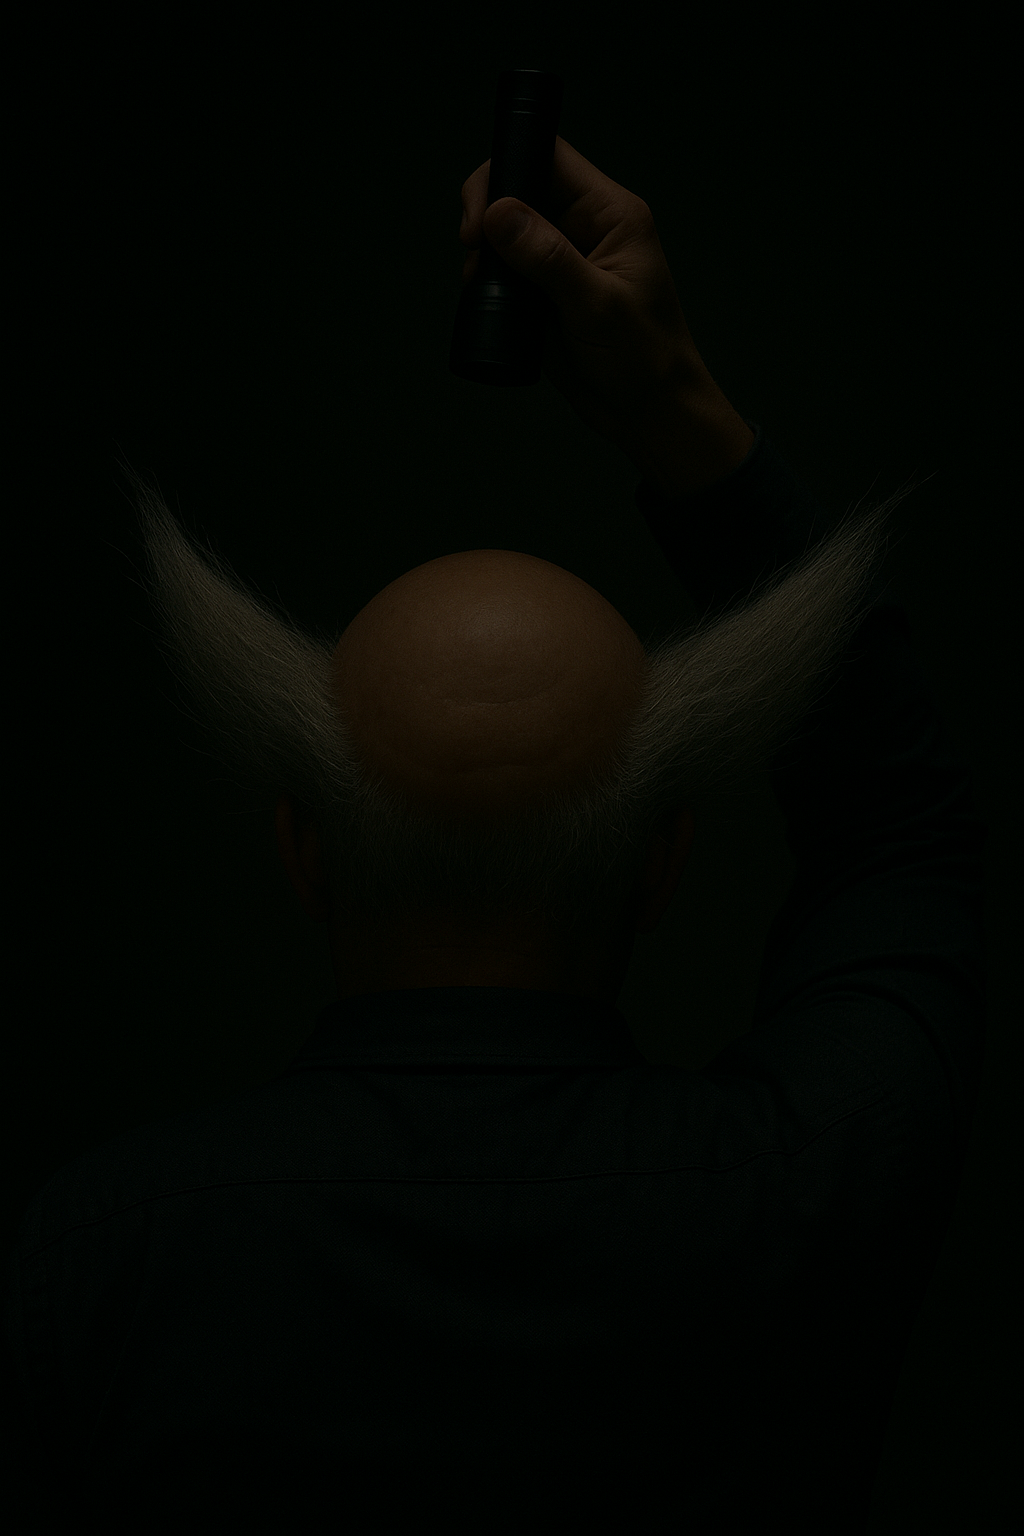
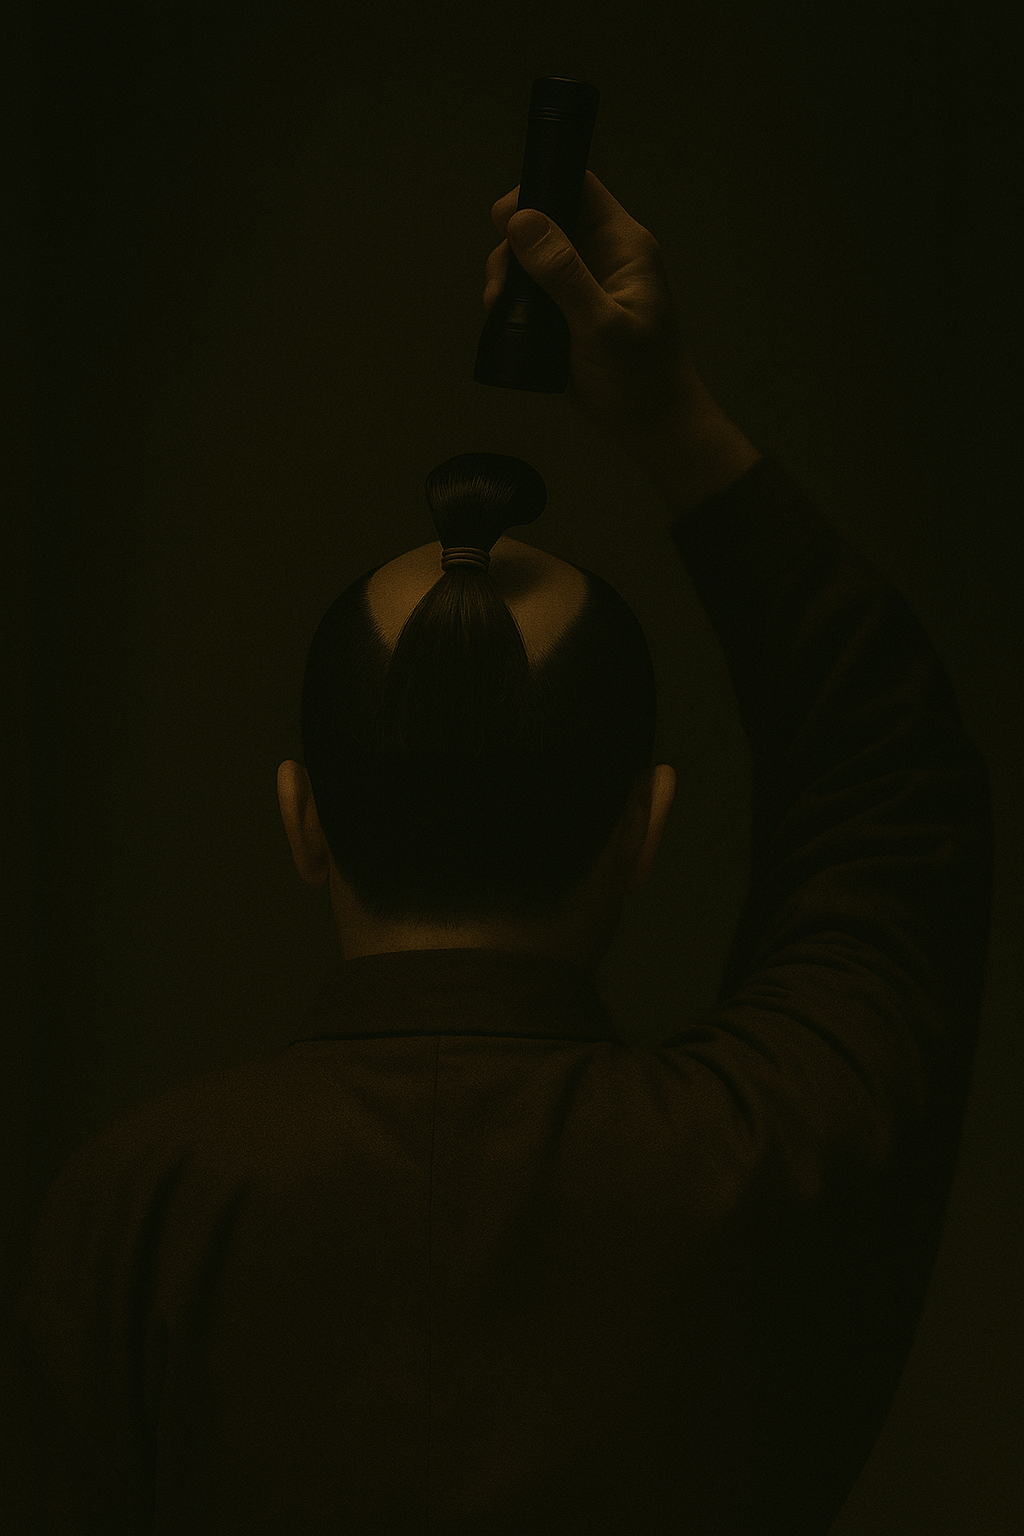
대머리 사진 변경

diff --git a/lib/main.dart b/lib/main.dart
@@ -506,10 +506,13 @@ class _FlashlightMainPageState extends State<FlashlightMainPage>
                         child: SizedBox(
                           height: 80,
                           child: ElevatedButton(
-                            onPressed:
-                                _isRewardedAdLoading ? null : _watchRewardedAd,
+                            onPressed: _isRewardedAdLoading || !_adMobService.isRewardedAdAvailable
+                                ? null 
+                                : _watchRewardedAd,
                             style: ElevatedButton.styleFrom(
-                              backgroundColor: Colors.green,
+                              backgroundColor: _adMobService.isRewardedAdAvailable 
+                                  ? Colors.green 
+                                  : Colors.green.withValues(alpha: 0.5),
                               foregroundColor: Colors.white,
                               shape: RoundedRectangleBorder(
                                 borderRadius: BorderRadius.circular(20),
@@ -526,22 +529,46 @@ class _FlashlightMainPageState extends State<FlashlightMainPage>
                                           Colors.white),
                                     ),
                                   )
-                                : const Column(
-                                    mainAxisAlignment: MainAxisAlignment.center,
-                                    children: [
-                                      Icon(Icons.video_library,
-                                          color: Colors.white, size: 24),
-                                      SizedBox(height: 4),
-                                      Text(
-                                        'Watch Ad\n+100',
-                                        style: TextStyle(
-                                          fontSize: 12,
-                                          fontWeight: FontWeight.bold,
-                                        ),
-                                        textAlign: TextAlign.center,
+                                : !_adMobService.isRewardedAdAvailable
+                                    ? const Column(
+                                        mainAxisAlignment: MainAxisAlignment.center,
+                                        children: [
+                                          SizedBox(
+                                            width: 16,
+                                            height: 16,
+                                            child: CircularProgressIndicator(
+                                              strokeWidth: 2,
+                                              valueColor: AlwaysStoppedAnimation<Color>(
+                                                  Colors.white),
+                                            ),
+                                          ),
+                                          SizedBox(height: 4),
+                                          Text(
+                                            'Loading\nAd...',
+                                            style: TextStyle(
+                                              fontSize: 10,
+                                              fontWeight: FontWeight.bold,
+                                            ),
+                                            textAlign: TextAlign.center,
+                                          ),
+                                        ],
+                                      )
+                                    : const Column(
+                                        mainAxisAlignment: MainAxisAlignment.center,
+                                        children: [
+                                          Icon(Icons.video_library,
+                                              color: Colors.white, size: 24),
+                                          SizedBox(height: 4),
+                                          Text(
+                                            'Watch Ad\n+100',
+                                            style: TextStyle(
+                                              fontSize: 12,
+                                              fontWeight: FontWeight.bold,
+                                            ),
+                                            textAlign: TextAlign.center,
+                                          ),
+                                        ],
                                       ),
-                                    ],
-                                  ),
                           ),
                         ),
                       ),

diff --git a/lib/services/admob_service.dart b/lib/services/admob_service.dart
@@ -144,15 +144,8 @@ class AdMobService {
           _rewardedAd = null;
           _isRewardedAdLoaded = false;
           
-          // 특정 에러 코드에 대해 재시도 (5초 후)
-          if (error.code == 0 || error.code == 1 || error.code == 2) {
-            _logEvent('5초 후 광고 로드 재시도 예정');
-            Future.delayed(const Duration(seconds: 5), () {
-              if (!_isRewardedAdLoaded) {
-                loadRewardedAd();
-              }
-            });
-          }
+          // 재시도 로직 제거 (무한로딩 방지)
+          _logEvent('광고 로드 실패 - 재시도하지 않음');
         },
       ),
     );
@@ -250,15 +243,8 @@ class AdMobService {
           _interstitialAd = null;
           _isInterstitialAdLoaded = false;
           
-          // 특정 에러 코드에 대해 재시도 (10초 후)
-          if (error.code == 0 || error.code == 1 || error.code == 2) {
-            _logEvent('10초 후 전면 광고 로드 재시도 예정');
-            Future.delayed(const Duration(seconds: 10), () {
-              if (!_isInterstitialAdLoaded) {
-                loadInterstitialAd();
-              }
-            });
-          }
+          // 재시도 로직 제거 (무한로딩 방지)
+          _logEvent('전면 광고 로드 실패 - 재시도하지 않음');
         },
       ),
     );
@@ -284,11 +270,8 @@ class AdMobService {
 
   /// 보상형 광고 단위 ID 반환
   String _getRewardedAdUnitId() {
-    if (kDebugMode) {
-      return Platform.isAndroid ? _testAndroidRewardedAdUnitId : _testIosRewardedAdUnitId;
-    } else {
-      return Platform.isAndroid ? _androidRewardedAdUnitId : _iosRewardedAdUnitId;
-    }
+    // 테스트 광고 ID를 항상 사용 (무한로딩 문제 해결을 위해)
+    return Platform.isAndroid ? _testAndroidRewardedAdUnitId : _testIosRewardedAdUnitId;
   }
 
   /// 전면 광고 단위 ID 반환

diff --git a/lib/services/bald_style_service.dart b/lib/services/bald_style_service.dart
@@ -202,7 +202,7 @@ class BaldStyleService {
       ),
       BaldStyle(
         id: 'bald2',
-        name: 'Heihachi',
+        name: 'chonmage',
         offImagePath: 'assets/images/bald_styles/bald2_off.png',
         onImagePath: 'assets/images/bald_styles/bald2_on.png',
         unlockCount: 100,
@@ -213,6 +213,20 @@ class BaldStyleService {
         offImagePath: 'assets/images/bald_styles/bald3_off.png',
         onImagePath: 'assets/images/bald_styles/bald3_on.png',
         unlockCount: 300,
+      ),
+      BaldStyle(
+        id: 'bald4',
+        name: 'Manchu queue',
+        offImagePath: 'assets/images/bald_styles/bald4_off.png',
+        onImagePath: 'assets/images/bald_styles/bald4_on.png',
+        unlockCount: 500,
+      ),
+      BaldStyle(
+        id: 'bald5',
+        name: 'Heihachi',
+        offImagePath: 'assets/images/bald_styles/bald5_off.png',
+        onImagePath: 'assets/images/bald_styles/bald5_on.png',
+        unlockCount: 1000,
       ),
     ];
   }

diff --git a/lib/screens/collection_screen.dart b/lib/screens/collection_screen.dart
@@ -133,6 +133,12 @@ class _CollectionScreenState extends State<CollectionScreen> {
           ),
         ),
       ),
+      floatingActionButton: FloatingActionButton(
+        onPressed: () => Navigator.of(context).pop(),
+        backgroundColor: theme.colorScheme.primary,
+        foregroundColor: Colors.white,
+        child: const Icon(Icons.arrow_back),
+      ),
     );
   }
 
